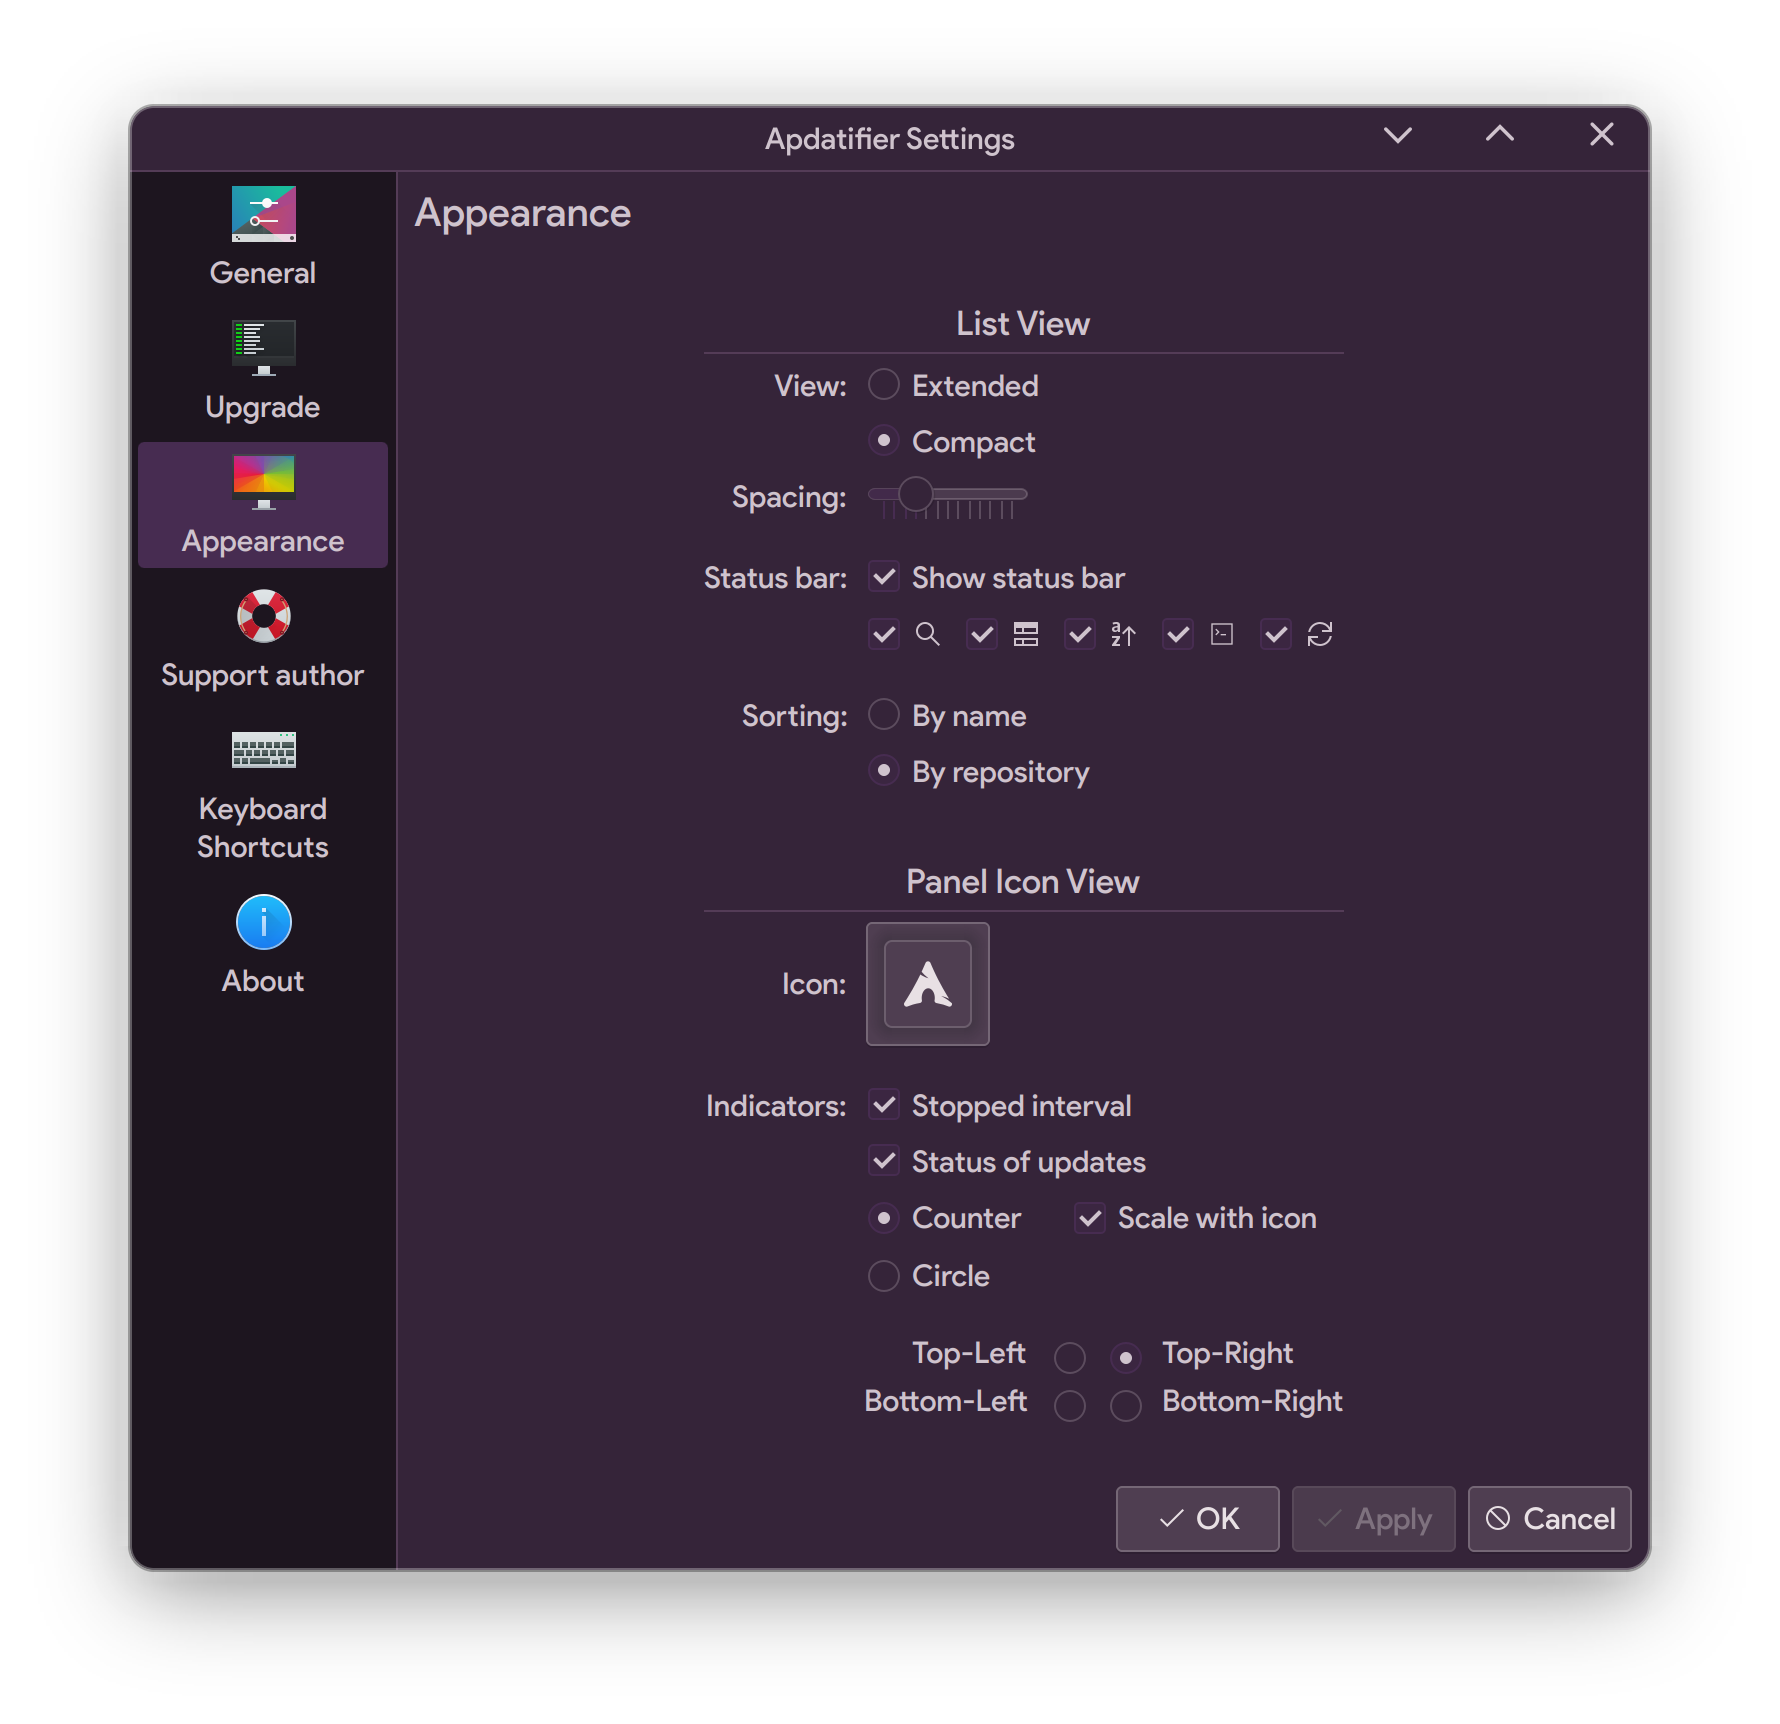
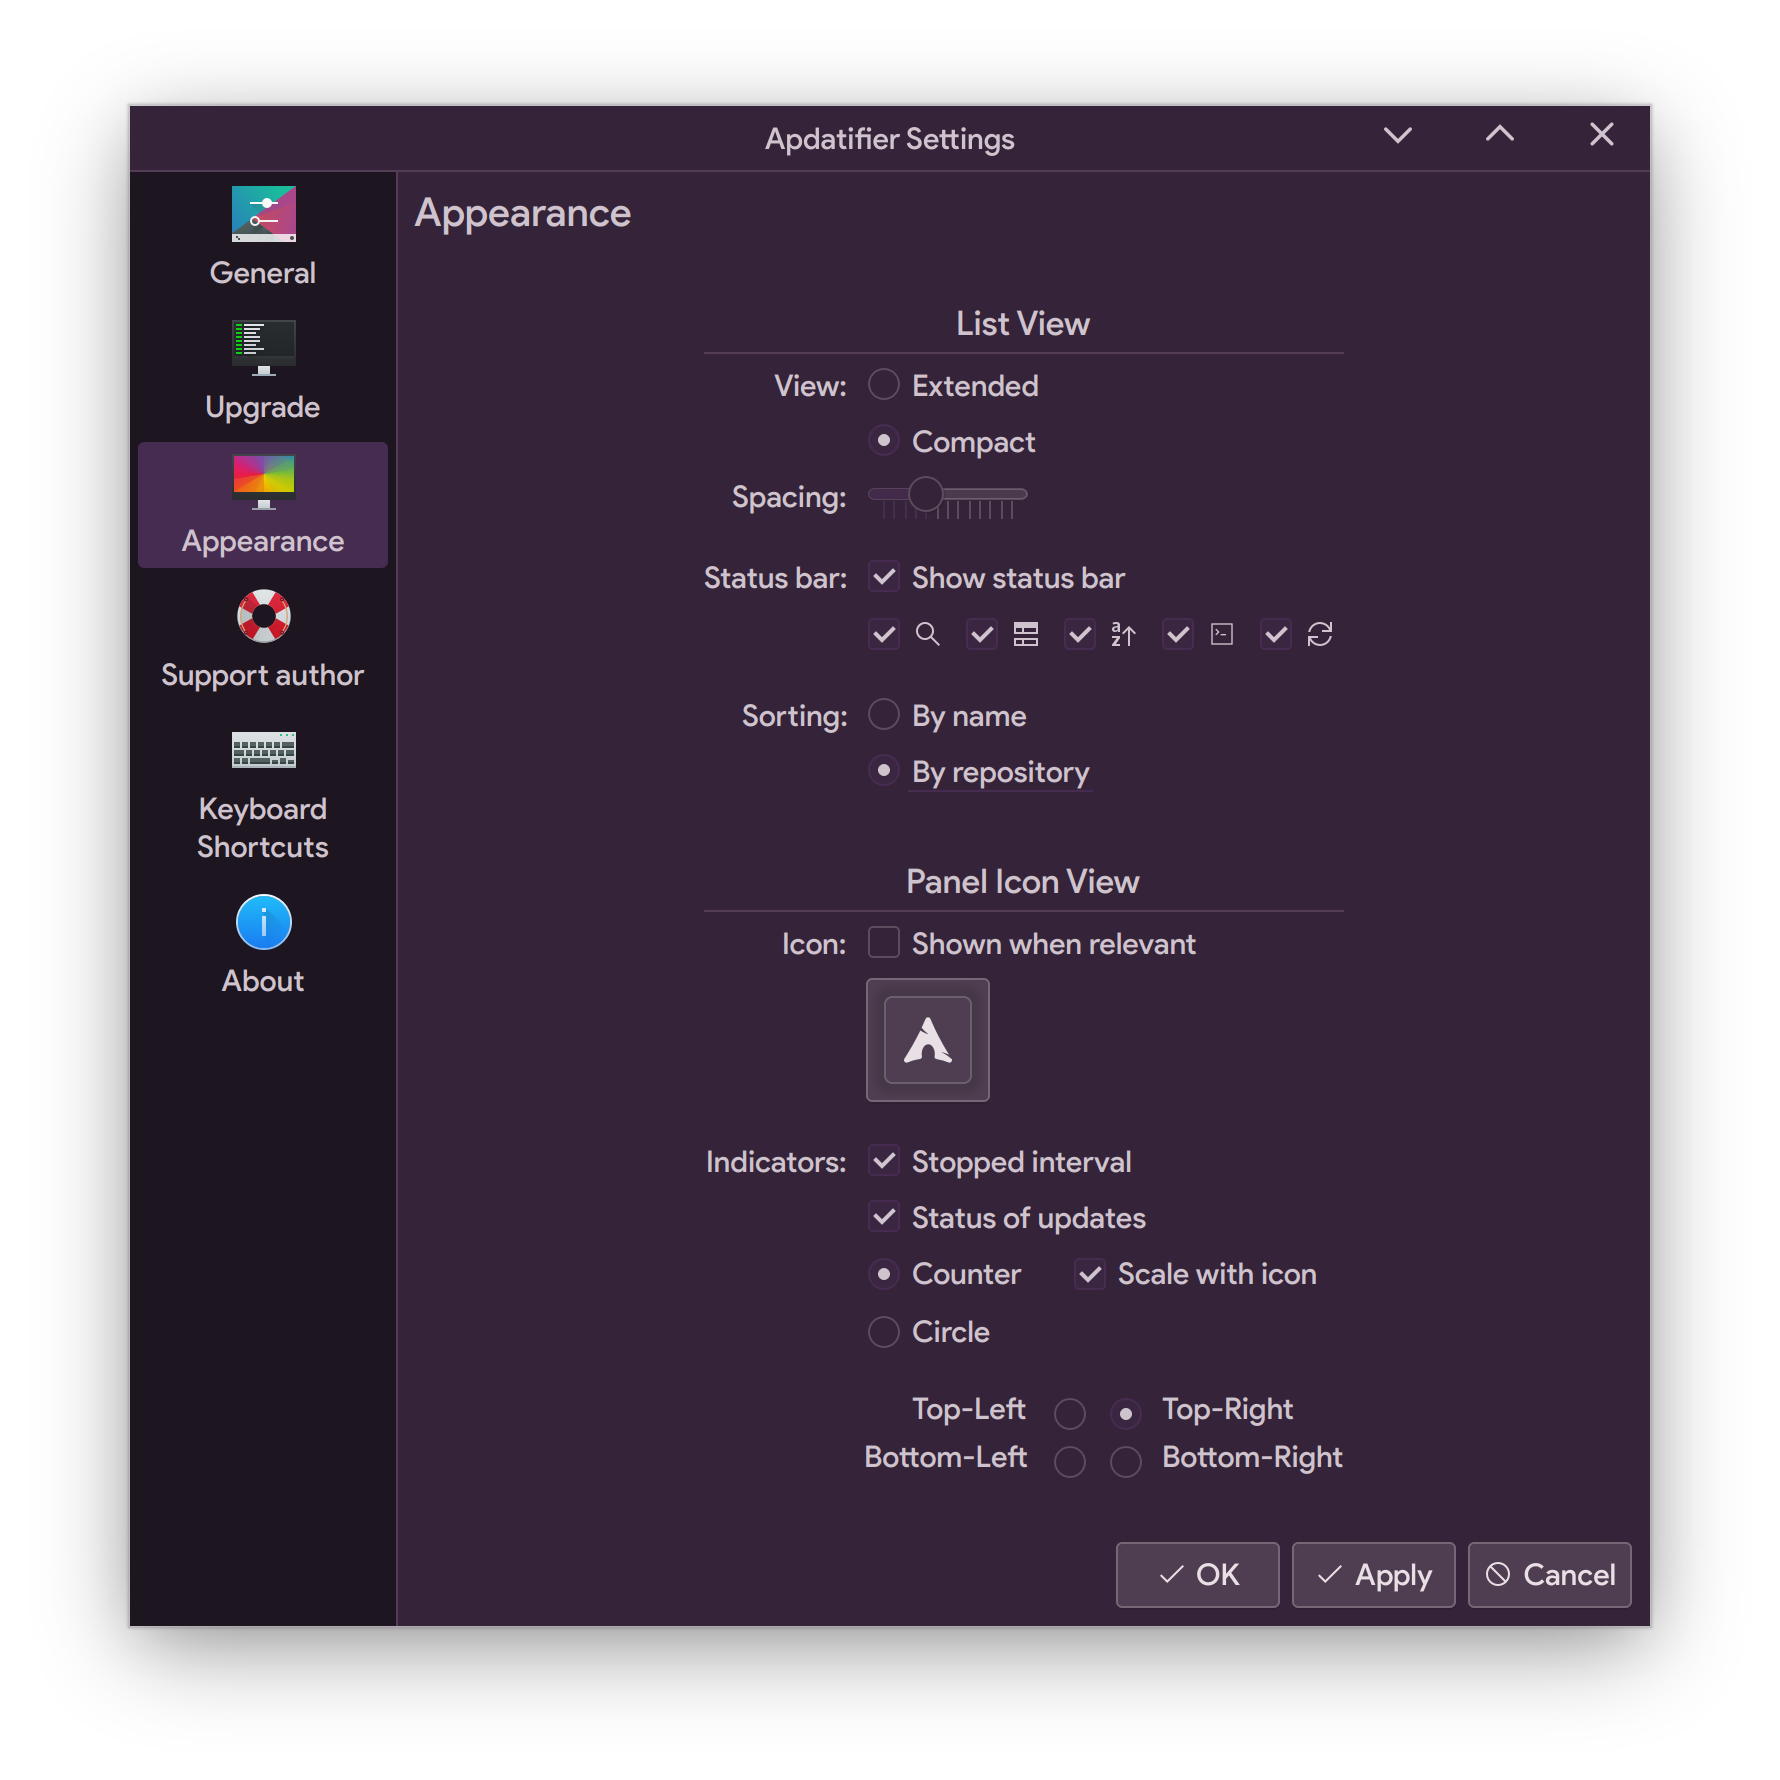
Changed default behavior upon initial startup

diff --git a/package/contents/ui/ConfigAppearance.qml b/package/contents/ui/ConfigAppearance.qml
@@ -29,6 +29,7 @@ SimpleKCM {
 
     property alias cfg_sortByName: sortByName.checked
 
+    property alias cfg_relevantIcon: relevantIcon.checked
     property string cfg_selectedIcon: plasmoid.configuration.selectedIcon
 
     property alias cfg_indicatorCounter: indicatorCounter.checked
@@ -169,10 +170,14 @@ SimpleKCM {
             Kirigami.FormData.label: i18n("Panel Icon View")
         }
 
+        CheckBox {
+            Kirigami.FormData.label: i18n("Icon:")
+            id: relevantIcon
+            text: "Shown when relevant"
+        }
+
         Button {
             id: iconButton
-
-            Kirigami.FormData.label: i18n("Icon:")
 
             implicitWidth: iconFrame.width + Kirigami.Units.smallSpacing
             implicitHeight: implicitWidth

diff --git a/package/contents/ui/main.qml b/package/contents/ui/main.qml
@@ -21,9 +21,10 @@ PlasmoidItem {
     switchHeight: Kirigami.Units.gridUnit * 10
 
     Plasmoid.busy: busy
-    Plasmoid.status: count > 0 || busy || error
-                        ? PlasmaCore.Types.ActiveStatus
-                        : PlasmaCore.Types.PassiveStatus
+    Plasmoid.status: {
+        if (cfg.relevantIcon) return count > 0 || busy || error ? PlasmaCore.Types.ActiveStatus : PlasmaCore.Types.PassiveStatus
+        else return PlasmaCore.Types.ActiveStatus
+    }
 
     Plasmoid.icon: plasmoid.configuration.selectedIcon
 
